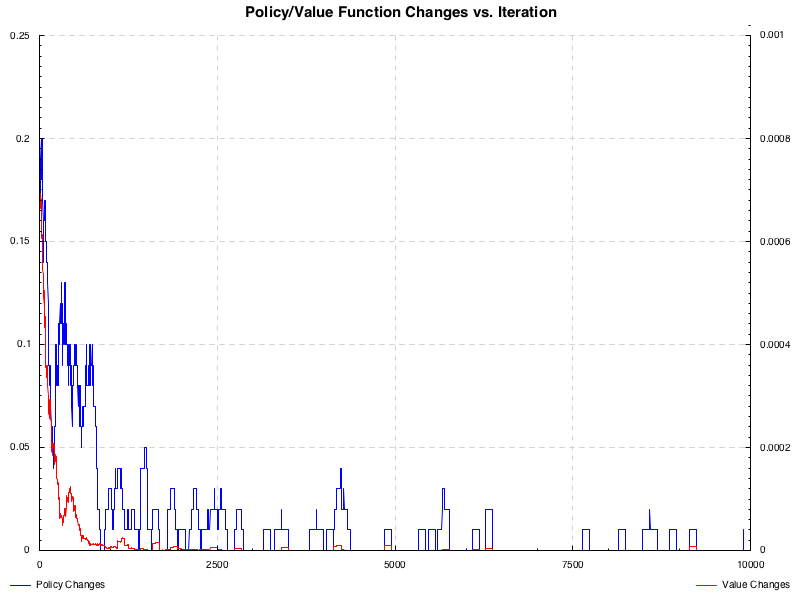
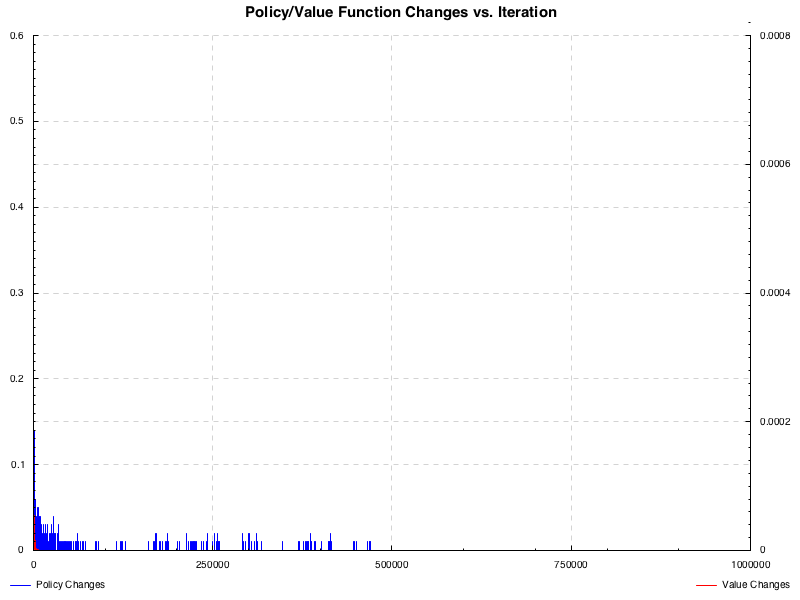
Checkpoint during blackjack updating.

diff --git a/blackjack.html b/blackjack.html
@@ -182,8 +182,8 @@ hit st<span class="fu">@</span><span class="dt">BJState</span>{<span class="fu">
 
 <span class="ot">stand ::</span> <span class="dt">BJState</span> <span class="ot">-&gt;</span> [((<span class="dt">BJState</span>, <span class="dt">Double</span>), <span class="dt">Double</span>)]
 stand st<span class="fu">@</span><span class="dt">BJState</span>{<span class="fu">..</span>} <span class="fu">=</span>
-  [ ((st&#39;, <span class="dv">0</span>), <span class="dv">1</span> <span class="fu">-</span> pWin)
-  , ((st&#39;, <span class="dv">1</span>), pWin)
+  [ ((st&#39;, <span class="fu">-</span><span class="dv">1</span>), <span class="dv">1</span> <span class="fu">-</span> pWin)
+  , ((st&#39;, <span class="dv">1</span>),  pWin)
   ]
   <span class="kw">where</span>
     st&#39;  <span class="fu">=</span> st{done <span class="fu">=</span> <span class="dt">True</span>}
@@ -373,7 +373,9 @@ main <span class="fu">=</span> <span class="kw">do</span>
   <span class="co">-- Debugging Info</span>
   appendFile mdFilename <span class="st">&quot;\n### Debugging Info\n\n&quot;</span>
 
-  appendFile mdFilename <span class="fu">$</span> pack <span class="fu">$</span> printf <span class="st">&quot;**Number of games played:** %d\n\n&quot;</span> nG
+  appendFile mdFilename <span class="fu">$</span> pack <span class="fu">$</span> printf <span class="st">&quot;**Number of games played:** %d  \n&quot;</span> nG
+  appendFile mdFilename <span class="fu">$</span> pack <span class="fu">$</span> printf <span class="st">&quot;**Epsilon:** %f  \n&quot;</span> eps&#39;
+  appendFile mdFilename <span class="fu">$</span> pack <span class="fu">$</span> printf <span class="st">&quot;**Beta:** %f\n\n&quot;</span> beta&#39;
 
   appendFile mdFilename <span class="st">&quot;**Last game sequence:**  \n&quot;</span>
   appendFile mdFilename <span class="fu">$</span> pack <span class="fu">$</span> unlines <span class="fu">$</span>
@@ -399,21 +401,21 @@ With usable ace:
 <span class="math display">\[\begin{array}{c|c|c|c|c|c|c|c|c|c}
 \text{Player&#39;s Total} &amp; &amp; &amp; &amp; &amp; &amp; &amp; &amp; &amp; &amp;  \\
 \hline
-12 &amp;   &amp; H &amp; H &amp; H &amp; H &amp; H &amp; H &amp; H &amp; H &amp; H \\
+12 &amp; H &amp; H &amp; H &amp; H &amp; H &amp; H &amp; H &amp; H &amp; H &amp; H \\
 \hline
-13 &amp;   &amp; H &amp; H &amp; H &amp; H &amp; H &amp; H &amp; H &amp; H &amp; H \\
+13 &amp; H &amp; H &amp; H &amp; H &amp; H &amp; H &amp; H &amp; H &amp; H &amp; H \\
 \hline
-14 &amp; H &amp;   &amp; H &amp;   &amp;   &amp;   &amp; H &amp; H &amp; H &amp;   \\
+14 &amp; H &amp; H &amp; H &amp; H &amp; H &amp; H &amp; H &amp; H &amp; H &amp; H \\
 \hline
-15 &amp; H &amp;   &amp; H &amp; H &amp; H &amp;   &amp; H &amp; H &amp; H &amp; H \\
+15 &amp; H &amp; H &amp; H &amp; H &amp; H &amp; H &amp; H &amp; H &amp; H &amp; H \\
 \hline
-16 &amp; H &amp;   &amp; H &amp;   &amp;   &amp; H &amp; H &amp; H &amp;   &amp; H \\
+16 &amp; H &amp; H &amp; H &amp; H &amp; H &amp; H &amp; H &amp; H &amp; H &amp; H \\
 \hline
-17 &amp; H &amp; H &amp; H &amp; H &amp;   &amp; H &amp; H &amp; H &amp; H &amp; H \\
+17 &amp; H &amp; H &amp; H &amp; H &amp; H &amp; H &amp; H &amp; H &amp; H &amp; H \\
 \hline
-18 &amp;   &amp;   &amp;   &amp;   &amp;   &amp;   &amp;   &amp; H &amp; H &amp;   \\
+18 &amp; H &amp;   &amp;   &amp;   &amp;   &amp;   &amp;   &amp; H &amp; H &amp; H \\
 \hline
-19 &amp;   &amp;   &amp; H &amp;   &amp;   &amp;   &amp;   &amp;   &amp;   &amp;   \\
+19 &amp;   &amp;   &amp;   &amp;   &amp;   &amp;   &amp;   &amp;   &amp;   &amp;   \\
 \hline
 20 &amp;   &amp;   &amp;   &amp;   &amp;   &amp;   &amp;   &amp;   &amp;   &amp;   \\
 \hline
@@ -425,21 +427,21 @@ No usable ace:
 <span class="math display">\[\begin{array}{c|c|c|c|c|c|c|c|c|c}
 \text{Player&#39;s Total} &amp; &amp; &amp; &amp; &amp; &amp; &amp; &amp; &amp; &amp;  \\
 \hline
-12 &amp;   &amp;   &amp;   &amp;   &amp;   &amp;   &amp;   &amp; H &amp;   &amp; H \\
+12 &amp; H &amp;   &amp;   &amp;   &amp;   &amp;   &amp; H &amp; H &amp; H &amp; H \\
 \hline
-13 &amp;   &amp;   &amp;   &amp;   &amp;   &amp;   &amp; H &amp; H &amp;   &amp;   \\
+13 &amp; H &amp;   &amp;   &amp;   &amp;   &amp;   &amp; H &amp; H &amp; H &amp; H \\
 \hline
-14 &amp;   &amp;   &amp;   &amp;   &amp; H &amp;   &amp;   &amp;   &amp;   &amp;   \\
+14 &amp; H &amp;   &amp;   &amp;   &amp;   &amp;   &amp; H &amp; H &amp; H &amp; H \\
 \hline
-15 &amp; H &amp;   &amp;   &amp;   &amp; H &amp;   &amp;   &amp;   &amp; H &amp;   \\
+15 &amp; H &amp;   &amp;   &amp;   &amp;   &amp;   &amp; H &amp; H &amp; H &amp;   \\
 \hline
-16 &amp;   &amp;   &amp;   &amp; H &amp;   &amp;   &amp; H &amp;   &amp;   &amp;   \\
+16 &amp; H &amp;   &amp;   &amp;   &amp;   &amp;   &amp;   &amp;   &amp;   &amp;   \\
 \hline
-17 &amp; H &amp;   &amp; H &amp;   &amp;   &amp;   &amp;   &amp;   &amp;   &amp;   \\
+17 &amp; H &amp;   &amp;   &amp;   &amp;   &amp;   &amp;   &amp;   &amp;   &amp;   \\
 \hline
-18 &amp;   &amp; H &amp;   &amp;   &amp;   &amp;   &amp;   &amp;   &amp;   &amp;   \\
+18 &amp;   &amp;   &amp;   &amp;   &amp;   &amp;   &amp;   &amp;   &amp;   &amp;   \\
 \hline
-19 &amp;   &amp;   &amp;   &amp;   &amp;   &amp;   &amp; H &amp;   &amp;   &amp;   \\
+19 &amp;   &amp;   &amp;   &amp;   &amp;   &amp;   &amp;   &amp;   &amp;   &amp;   \\
 \hline
 20 &amp;   &amp;   &amp;   &amp;   &amp;   &amp;   &amp;   &amp;   &amp;   &amp;   \\
 \hline
@@ -453,34 +455,36 @@ No usable ace:
 
 </div>
 <h3 id="debugging-info">Debugging Info</h3>
-<p><strong>Number of games played:</strong> 10000</p>
+<p><strong>Number of games played:</strong> 1000000<br />
+<strong>Epsilon:</strong> 0.5<br />
+<strong>Beta:</strong> 0.0</p>
 <p><strong>Last game sequence:</strong><br />
-Total: 19, Action: S, Reward: 0.5</p>
-<p><strong>Max. game length:</strong> 6</p>
+Total: 20, Action: S, Reward: 0.6</p>
+<p><strong>Max. game length:</strong> 8</p>
 <p><strong>Final State Action Values (stand, hit):</strong></p>
 With usable ace:
 <span class="math display">\[\begin{array}{c|c|c|c|c|c|c|c|c|c}
 \text{Player&#39;s Total} &amp; &amp; &amp; &amp; &amp; &amp; &amp; &amp; &amp; &amp;  \\
 \hline
-12 &amp; ( 0.12, 0.08) &amp; ( 0.00, 0.44) &amp; ( 0.37, 0.53) &amp; ( 0.39, 0.46) &amp; ( 0.42, 0.54) &amp; ( 0.00, 0.56) &amp; ( 0.26, 0.52) &amp; ( 0.00, 0.43) &amp; ( 0.23, 0.49) &amp; ( 0.21, 0.31) \\
+12 &amp; (-0.77,-0.38) &amp; (-0.29, 0.01) &amp; (-0.25, 0.04) &amp; (-0.21, 0.07) &amp; (-0.17, 0.10) &amp; (-0.15, 0.14) &amp; (-0.48, 0.07) &amp; (-0.51,-0.01) &amp; (-0.54,-0.11) &amp; (-0.58,-0.24) \\
 \hline
-13 &amp; ( 0.12, 0.00) &amp; ( 0.00, 0.43) &amp; ( 0.37, 0.48) &amp; ( 0.39, 0.47) &amp; ( 0.00, 0.51) &amp; ( 0.00, 0.51) &amp; ( 0.00, 0.57) &amp; ( 0.24, 0.47) &amp; ( 0.23, 0.32) &amp; ( 0.21, 0.30) \\
+13 &amp; (-0.77,-0.40) &amp; (-0.29,-0.02) &amp; (-0.25, 0.01) &amp; (-0.21, 0.04) &amp; (-0.17, 0.10) &amp; (-0.15, 0.10) &amp; (-0.48, 0.05) &amp; (-0.51,-0.02) &amp; (-0.54,-0.12) &amp; (-0.58,-0.26) \\
 \hline
-14 &amp; ( 0.00, 0.21) &amp; ( 0.35, 0.31) &amp; ( 0.37, 0.49) &amp; ( 0.39, 0.38) &amp; ( 0.42, 0.39) &amp; ( 0.42, 0.22) &amp; ( 0.26, 0.52) &amp; ( 0.24, 0.48) &amp; ( 0.23, 0.34) &amp; ( 0.21, 0.00) \\
+14 &amp; (-0.77,-0.45) &amp; (-0.29,-0.05) &amp; (-0.25,-0.02) &amp; (-0.21, 0.03) &amp; (-0.17, 0.07) &amp; (-0.15, 0.10) &amp; (-0.48, 0.02) &amp; (-0.51,-0.04) &amp; (-0.54,-0.18) &amp; (-0.58,-0.29) \\
 \hline
-15 &amp; ( 0.12, 0.21) &amp; ( 0.35, 0.18) &amp; ( 0.00, 0.43) &amp; ( 0.39, 0.47) &amp; ( 0.42, 0.50) &amp; ( 0.42, 0.36) &amp; ( 0.00, 0.44) &amp; ( 0.24, 0.40) &amp; ( 0.00, 0.33) &amp; ( 0.21, 0.35) \\
+15 &amp; (-0.77,-0.45) &amp; (-0.29,-0.05) &amp; (-0.25,-0.01) &amp; (-0.21, 0.02) &amp; (-0.17, 0.04) &amp; (-0.15, 0.08) &amp; (-0.48,-0.02) &amp; (-0.51,-0.10) &amp; (-0.54,-0.20) &amp; (-0.58,-0.31) \\
 \hline
-16 &amp; ( 0.00, 0.20) &amp; ( 0.35, 0.29) &amp; ( 0.00, 0.42) &amp; ( 0.39, 0.38) &amp; ( 0.42, 0.21) &amp; ( 0.42, 0.50) &amp; ( 0.26, 0.42) &amp; ( 0.24, 0.41) &amp; ( 0.23, 0.11) &amp; ( 0.00, 0.31) \\
+16 &amp; (-0.77,-0.47) &amp; (-0.29,-0.07) &amp; (-0.25,-0.03) &amp; (-0.21, 0.01) &amp; (-0.17, 0.04) &amp; (-0.15, 0.06) &amp; (-0.48,-0.07) &amp; (-0.51,-0.14) &amp; (-0.54,-0.24) &amp; (-0.58,-0.34) \\
 \hline
-17 &amp; ( 0.12, 0.24) &amp; ( 0.35, 0.44) &amp; ( 0.37, 0.45) &amp; ( 0.39, 0.43) &amp; ( 0.42, 0.36) &amp; ( 0.42, 0.51) &amp; ( 0.26, 0.40) &amp; ( 0.24, 0.46) &amp; ( 0.23, 0.36) &amp; ( 0.21, 0.26) \\
+17 &amp; (-0.77,-0.50) &amp; (-0.29,-0.09) &amp; (-0.25,-0.05) &amp; (-0.21,-0.01) &amp; (-0.17, 0.02) &amp; (-0.15, 0.04) &amp; (-0.48,-0.12) &amp; (-0.51,-0.18) &amp; (-0.54,-0.26) &amp; (-0.58,-0.35) \\
 \hline
-18 &amp; ( 0.25, 0.21) &amp; ( 0.49, 0.25) &amp; ( 0.51, 0.50) &amp; ( 0.52, 0.43) &amp; ( 0.54, 0.48) &amp; ( 0.59, 0.42) &amp; ( 0.63, 0.55) &amp; ( 0.37, 0.48) &amp; ( 0.35, 0.41) &amp; ( 0.32, 0.29) \\
+18 &amp; (-0.51,-0.46) &amp; (-0.01,-0.02) &amp; ( 0.02, 0.01) &amp; ( 0.05, 0.04) &amp; ( 0.08, 0.07) &amp; ( 0.18, 0.13) &amp; ( 0.26, 0.05) &amp; (-0.25,-0.10) &amp; (-0.30,-0.19) &amp; (-0.35,-0.30) \\
 \hline
-19 &amp; ( 0.38, 0.21) &amp; ( 0.63, 0.31) &amp; ( 0.00, 0.48) &amp; ( 0.65, 0.17) &amp; ( 0.66, 0.49) &amp; ( 0.69, 0.52) &amp; ( 0.77, 0.41) &amp; ( 0.73, 0.55) &amp; ( 0.47, 0.40) &amp; ( 0.43, 0.35) \\
+19 &amp; (-0.25,-0.40) &amp; ( 0.26, 0.05) &amp; ( 0.28, 0.06) &amp; ( 0.30, 0.10) &amp; ( 0.32, 0.13) &amp; ( 0.39, 0.17) &amp; ( 0.54, 0.11) &amp; ( 0.47, 0.06) &amp; (-0.06,-0.14) &amp; (-0.13,-0.26) \\
 \hline
-20 &amp; ( 0.51, 0.22) &amp; ( 0.76, 0.20) &amp; ( 0.76, 0.44) &amp; ( 0.77, 0.51) &amp; ( 0.78, 0.63) &amp; ( 0.80, 0.44) &amp; ( 0.85, 0.52) &amp; ( 0.86, 0.38) &amp; ( 0.82, 0.35) &amp; ( 0.55, 0.50) \\
+20 &amp; ( 0.02,-0.34) &amp; ( 0.52, 0.08) &amp; ( 0.53, 0.13) &amp; ( 0.54, 0.14) &amp; ( 0.56, 0.18) &amp; ( 0.60, 0.21) &amp; ( 0.69, 0.17) &amp; ( 0.72, 0.09) &amp; ( 0.64, 0.00) &amp; ( 0.09,-0.21) \\
 \hline
-21 &amp; ( 0.64, 0.00) &amp; ( 0.88, 0.00) &amp; ( 0.89, 0.00) &amp; ( 0.89, 0.00) &amp; ( 0.89, 0.00) &amp; ( 0.90, 0.00) &amp; ( 0.93, 0.00) &amp; ( 0.93, 0.00) &amp; ( 0.94, 0.00) &amp; ( 0.89, 0.00) \\
+21 &amp; ( 0.28, 0.00) &amp; ( 0.76, 0.00) &amp; ( 0.77, 0.00) &amp; ( 0.78, 0.00) &amp; ( 0.78, 0.00) &amp; ( 0.81, 0.00) &amp; ( 0.85, 0.00) &amp; ( 0.86, 0.00) &amp; ( 0.88, 0.00) &amp; ( 0.78, 0.00) \\
 \hline
 \text{Dealer&#39;s Card:}  &amp; 1 &amp; 2 &amp; 3 &amp; 4 &amp; 5 &amp; 6 &amp; 7 &amp; 8 &amp; 9 &amp; 10
 \end{array}\]</span>
@@ -488,25 +492,25 @@ No usable ace:
 <span class="math display">\[\begin{array}{c|c|c|c|c|c|c|c|c|c}
 \text{Player&#39;s Total} &amp; &amp; &amp; &amp; &amp; &amp; &amp; &amp; &amp; &amp;  \\
 \hline
-12 &amp; ( 0.12, 0.07) &amp; ( 0.35, 0.20) &amp; ( 0.37, 0.33) &amp; ( 0.39, 0.24) &amp; ( 0.42, 0.32) &amp; ( 0.42, 0.33) &amp; ( 0.26, 0.00) &amp; ( 0.24, 0.32) &amp; ( 0.23, 0.08) &amp; ( 0.21, 0.22) \\
+12 &amp; (-0.77,-0.60) &amp; (-0.29,-0.31) &amp; (-0.25,-0.28) &amp; (-0.21,-0.24) &amp; (-0.17,-0.22) &amp; (-0.15,-0.22) &amp; (-0.48,-0.27) &amp; (-0.51,-0.34) &amp; (-0.54,-0.42) &amp; (-0.58,-0.50) \\
 \hline
-13 &amp; ( 0.12, 0.03) &amp; ( 0.35, 0.18) &amp; ( 0.37, 0.19) &amp; ( 0.39, 0.13) &amp; ( 0.42, 0.25) &amp; ( 0.42, 0.39) &amp; ( 0.26, 0.34) &amp; ( 0.24, 0.29) &amp; ( 0.23, 0.20) &amp; ( 0.21, 0.00) \\
+13 &amp; (-0.77,-0.62) &amp; (-0.29,-0.35) &amp; (-0.25,-0.33) &amp; (-0.21,-0.30) &amp; (-0.17,-0.29) &amp; (-0.15,-0.26) &amp; (-0.48,-0.31) &amp; (-0.51,-0.38) &amp; (-0.54,-0.44) &amp; (-0.58,-0.51) \\
 \hline
-14 &amp; ( 0.12, 0.09) &amp; ( 0.35, 0.29) &amp; ( 0.37, 0.31) &amp; ( 0.39, 0.18) &amp; ( 0.00, 0.30) &amp; ( 0.42, 0.36) &amp; ( 0.26, 0.17) &amp; ( 0.24, 0.22) &amp; ( 0.23, 0.19) &amp; ( 0.21, 0.14) \\
+14 &amp; (-0.77,-0.66) &amp; (-0.29,-0.41) &amp; (-0.25,-0.39) &amp; (-0.21,-0.36) &amp; (-0.17,-0.35) &amp; (-0.15,-0.33) &amp; (-0.48,-0.38) &amp; (-0.51,-0.41) &amp; (-0.54,-0.48) &amp; (-0.58,-0.55) \\
 \hline
-15 &amp; ( 0.00, 0.15) &amp; ( 0.35, 0.35) &amp; ( 0.37, 0.00) &amp; ( 0.39, 0.34) &amp; ( 0.00, 0.21) &amp; ( 0.42, 0.00) &amp; ( 0.26, 0.00) &amp; ( 0.24, 0.24) &amp; ( 0.00, 0.22) &amp; ( 0.21, 0.14) \\
+15 &amp; (-0.77,-0.67) &amp; (-0.29,-0.45) &amp; (-0.25,-0.46) &amp; (-0.21,-0.44) &amp; (-0.17,-0.41) &amp; (-0.15,-0.40) &amp; (-0.48,-0.43) &amp; (-0.51,-0.47) &amp; (-0.54,-0.53) &amp; (-0.58,-0.59) \\
 \hline
-16 &amp; ( 0.12, 0.09) &amp; ( 0.35, 0.33) &amp; ( 0.37, 0.00) &amp; ( 0.00, 0.22) &amp; ( 0.42, 0.17) &amp; ( 0.42, 0.32) &amp; ( 0.00, 0.22) &amp; ( 0.24, 0.20) &amp; ( 0.23, 0.13) &amp; ( 0.21, 0.00) \\
+16 &amp; (-0.77,-0.70) &amp; (-0.29,-0.51) &amp; (-0.25,-0.50) &amp; (-0.21,-0.52) &amp; (-0.17,-0.49) &amp; (-0.15,-0.45) &amp; (-0.48,-0.49) &amp; (-0.51,-0.52) &amp; (-0.54,-0.56) &amp; (-0.58,-0.62) \\
 \hline
-17 &amp; ( 0.12, 0.15) &amp; ( 0.35, 0.15) &amp; ( 0.00, 0.15) &amp; ( 0.39, 0.20) &amp; ( 0.42, 0.00) &amp; ( 0.42, 0.27) &amp; ( 0.26, 0.20) &amp; ( 0.24, 0.24) &amp; ( 0.23, 0.21) &amp; ( 0.21, 0.19) \\
+17 &amp; (-0.77,-0.73) &amp; (-0.29,-0.56) &amp; (-0.25,-0.56) &amp; (-0.21,-0.56) &amp; (-0.17,-0.55) &amp; (-0.15,-0.53) &amp; (-0.48,-0.49) &amp; (-0.51,-0.52) &amp; (-0.54,-0.62) &amp; (-0.58,-0.64) \\
 \hline
-18 &amp; ( 0.25, 0.09) &amp; ( 0.00, 0.15) &amp; ( 0.51, 0.39) &amp; ( 0.52, 0.00) &amp; ( 0.54, 0.30) &amp; ( 0.59, 0.23) &amp; ( 0.63, 0.31) &amp; ( 0.37, 0.00) &amp; ( 0.35, 0.00) &amp; ( 0.32, 0.18) \\
+18 &amp; (-0.51,-0.75) &amp; (-0.01,-0.63) &amp; ( 0.02,-0.63) &amp; ( 0.05,-0.62) &amp; ( 0.08,-0.62) &amp; ( 0.18,-0.62) &amp; ( 0.26,-0.61) &amp; (-0.25,-0.59) &amp; (-0.30,-0.67) &amp; (-0.35,-0.71) \\
 \hline
-19 &amp; ( 0.38, 0.09) &amp; ( 0.63, 0.17) &amp; ( 0.64, 0.22) &amp; ( 0.65, 0.09) &amp; ( 0.66, 0.10) &amp; ( 0.69, 0.00) &amp; ( 0.00, 0.19) &amp; ( 0.73, 0.12) &amp; ( 0.47, 0.00) &amp; ( 0.43, 0.00) \\
+19 &amp; (-0.25,-0.83) &amp; ( 0.26,-0.74) &amp; ( 0.28,-0.74) &amp; ( 0.30,-0.72) &amp; ( 0.32,-0.75) &amp; ( 0.39,-0.73) &amp; ( 0.54,-0.70) &amp; ( 0.47,-0.70) &amp; (-0.06,-0.71) &amp; (-0.13,-0.76) \\
 \hline
-20 &amp; ( 0.51, 0.00) &amp; ( 0.76, 0.08) &amp; ( 0.76, 0.00) &amp; ( 0.77, 0.00) &amp; ( 0.78, 0.00) &amp; ( 0.80, 0.00) &amp; ( 0.85, 0.00) &amp; ( 0.86, 0.00) &amp; ( 0.82, 0.00) &amp; ( 0.55, 0.00) \\
+20 &amp; ( 0.02,-1.00) &amp; ( 0.52,-1.00) &amp; ( 0.53,-1.00) &amp; ( 0.54,-1.00) &amp; ( 0.56,-1.00) &amp; ( 0.60,-1.00) &amp; ( 0.69,-1.00) &amp; ( 0.72,-1.00) &amp; ( 0.64,-1.00) &amp; ( 0.09,-1.00) \\
 \hline
-21 &amp; ( 0.64, 0.00) &amp; ( 0.88, 0.00) &amp; ( 0.89, 0.00) &amp; ( 0.89, 0.00) &amp; ( 0.89, 0.00) &amp; ( 0.90, 0.00) &amp; ( 0.93, 0.00) &amp; ( 0.93, 0.00) &amp; ( 0.94, 0.00) &amp; ( 0.89, 0.00) \\
+21 &amp; ( 0.28, 0.00) &amp; ( 0.76, 0.00) &amp; ( 0.77, 0.00) &amp; ( 0.78, 0.00) &amp; ( 0.78, 0.00) &amp; ( 0.81, 0.00) &amp; ( 0.85, 0.00) &amp; ( 0.86, 0.00) &amp; ( 0.88, 0.00) &amp; ( 0.78, 0.00) \\
 \hline
 \text{Dealer&#39;s Card:}  &amp; 1 &amp; 2 &amp; 3 &amp; 4 &amp; 5 &amp; 6 &amp; 7 &amp; 8 &amp; 9 &amp; 10
 \end{array}\]</span>
@@ -515,25 +519,25 @@ With usable ace:
 <span class="math display">\[\begin{array}{c|c|c|c|c|c|c|c|c|c}
 \text{Player&#39;s Total} &amp; &amp; &amp; &amp; &amp; &amp; &amp; &amp; &amp; &amp;  \\
 \hline
-12 &amp; (40,5) &amp; (0,49) &amp; (1,42) &amp; (1,63) &amp; (23,25) &amp; (0,34) &amp; (1,46) &amp; (0,50) &amp; (38,9) &amp; (3,38) \\
+12 &amp; (2560,2536) &amp; (2442,2437) &amp; (2434,2411) &amp; (2442,2542) &amp; (2484,2553) &amp; (2544,2472) &amp; (2487,2575) &amp; (2424,2496) &amp; (2466,2565) &amp; (2423,2502) \\
 \hline
-13 &amp; (39,1) &amp; (0,44) &amp; (4,59) &amp; (18,35) &amp; (0,49) &amp; (0,52) &amp; (0,49) &amp; (1,60) &amp; (1,62) &amp; (38,14) \\
+13 &amp; (2546,2725) &amp; (2534,2705) &amp; (2499,2735) &amp; (2425,2678) &amp; (2466,2707) &amp; (2653,2696) &amp; (2413,2743) &amp; (2514,2728) &amp; (2414,2683) &amp; (2493,2686) \\
 \hline
-14 &amp; (0,48) &amp; (53,2) &amp; (2,82) &amp; (46,9) &amp; (48,9) &amp; (55,5) &amp; (1,56) &amp; (1,58) &amp; (2,69) &amp; (51,0) \\
+14 &amp; (2598,2880) &amp; (2472,2941) &amp; (2584,2802) &amp; (2499,2809) &amp; (2418,2908) &amp; (2546,2977) &amp; (2582,2905) &amp; (2558,2913) &amp; (2552,2911) &amp; (2611,2878) \\
 \hline
-15 &amp; (44,18) &amp; (65,2) &amp; (0,53) &amp; (34,20) &amp; (1,48) &amp; (60,4) &amp; (0,59) &amp; (2,57) &amp; (0,60) &amp; (1,51) \\
+15 &amp; (2441,3095) &amp; (2490,3202) &amp; (2489,3170) &amp; (2560,2962) &amp; (2512,3132) &amp; (2486,3141) &amp; (2409,3135) &amp; (2463,3088) &amp; (2586,3172) &amp; (2544,3178) \\
 \hline
-16 &amp; (0,47) &amp; (54,3) &amp; (0,80) &amp; (42,23) &amp; (54,11) &amp; (1,54) &amp; (1,58) &amp; (1,66) &amp; (53,2) &amp; (0,53) \\
+16 &amp; (2498,3387) &amp; (2404,3377) &amp; (2531,3379) &amp; (2426,3362) &amp; (2482,3426) &amp; (2449,3372) &amp; (2471,3389) &amp; (2477,3364) &amp; (2538,3339) &amp; (2487,3317) \\
 \hline
-17 &amp; (1,57) &amp; (5,59) &amp; (2,75) &amp; (2,61) &amp; (53,11) &amp; (2,60) &amp; (2,70) &amp; (3,85) &amp; (3,53) &amp; (1,60) \\
+17 &amp; (2561,3615) &amp; (2438,3566) &amp; (2482,3688) &amp; (2533,3560) &amp; (2443,3738) &amp; (2524,3624) &amp; (2505,3684) &amp; (2487,3690) &amp; (2523,3599) &amp; (2521,3627) \\
 \hline
-18 &amp; (49,12) &amp; (60,11) &amp; (58,29) &amp; (52,6) &amp; (40,11) &amp; (69,3) &amp; (50,23) &amp; (2,95) &amp; (2,61) &amp; (49,12) \\
+18 &amp; (2469,3874) &amp; (3923,2533) &amp; (3953,2577) &amp; (3833,2470) &amp; (3996,2592) &amp; (4037,2537) &amp; (3900,2508) &amp; (2558,3877) &amp; (2435,3988) &amp; (2583,3867) \\
 \hline
-19 &amp; (53,3) &amp; (71,4) &amp; (0,81) &amp; (66,3) &amp; (45,6) &amp; (39,18) &amp; (64,11) &amp; (104,5) &amp; (1,75) &amp; (33,28) \\
+19 &amp; (4306,2497) &amp; (4081,2508) &amp; (4138,2517) &amp; (4083,2546) &amp; (4200,2400) &amp; (4141,2479) &amp; (4177,2573) &amp; (4302,2559) &amp; (4233,2465) &amp; (4226,2434) \\
 \hline
-20 &amp; (33,44) &amp; (37,31) &amp; (76,6) &amp; (23,32) &amp; (68,4) &amp; (49,24) &amp; (72,6) &amp; (89,8) &amp; (50,9) &amp; (41,22) \\
+20 &amp; (4393,2481) &amp; (4331,2499) &amp; (4230,2474) &amp; (4183,2568) &amp; (4333,2437) &amp; (4307,2395) &amp; (4369,2542) &amp; (4454,2516) &amp; (4433,2435) &amp; (4369,2483) \\
 \hline
-21 &amp; (56,0) &amp; (54,0) &amp; (92,0) &amp; (60,0) &amp; (59,0) &amp; (73,0) &amp; (80,0) &amp; (61,0) &amp; (77,0) &amp; (67,0) \\
+21 &amp; (7050,0) &amp; (7005,0) &amp; (6955,0) &amp; (7119,0) &amp; (7061,0) &amp; (6799,0) &amp; (7091,0) &amp; (7163,0) &amp; (7187,0) &amp; (7100,0) \\
 \hline
 \text{Dealer&#39;s Card:}  &amp; 1 &amp; 2 &amp; 3 &amp; 4 &amp; 5 &amp; 6 &amp; 7 &amp; 8 &amp; 9 &amp; 10
 \end{array}\]</span>
@@ -541,25 +545,25 @@ No usable ace:
 <span class="math display">\[\begin{array}{c|c|c|c|c|c|c|c|c|c}
 \text{Player&#39;s Total} &amp; &amp; &amp; &amp; &amp; &amp; &amp; &amp; &amp; &amp;  \\
 \hline
-12 &amp; (53,13) &amp; (33,53) &amp; (80,12) &amp; (71,10) &amp; (43,24) &amp; (52,25) &amp; (96,1) &amp; (3,87) &amp; (86,3) &amp; (2,72) \\
+12 &amp; (2477,5244) &amp; (4924,2513) &amp; (5080,2527) &amp; (5117,2548) &amp; (5100,2546) &amp; (4968,2573) &amp; (2547,5112) &amp; (2576,5004) &amp; (2521,5164) &amp; (2461,5080) \\
 \hline
-13 &amp; (75,4) &amp; (73,4) &amp; (81,2) &amp; (74,10) &amp; (51,12) &amp; (83,7) &amp; (2,61) &amp; (2,93) &amp; (74,13) &amp; (75,4) \\
+13 &amp; (2582,5464) &amp; (5025,2524) &amp; (5166,2544) &amp; (5025,2466) &amp; (5019,2497) &amp; (5158,2570) &amp; (2474,5326) &amp; (2592,5359) &amp; (2514,5447) &amp; (2478,5405) \\
 \hline
-14 &amp; (73,10) &amp; (81,6) &amp; (84,25) &amp; (74,10) &amp; (0,74) &amp; (51,6) &amp; (72,5) &amp; (57,31) &amp; (80,8) &amp; (75,3) \\
+14 &amp; (2637,5536) &amp; (5176,2510) &amp; (5020,2544) &amp; (5152,2513) &amp; (5081,2513) &amp; (5136,2532) &amp; (2658,5322) &amp; (2448,5720) &amp; (2585,5754) &amp; (2911,5360) \\
 \hline
-15 &amp; (0,77) &amp; (66,5) &amp; (91,3) &amp; (66,6) &amp; (0,97) &amp; (59,2) &amp; (92,4) &amp; (17,90) &amp; (0,85) &amp; (77,8) \\
+15 &amp; (2583,5953) &amp; (5283,2527) &amp; (5239,2469) &amp; (5139,2498) &amp; (5050,2426) &amp; (5191,2410) &amp; (3173,5192) &amp; (3674,4696) &amp; (2664,5845) &amp; (5906,2571) \\
 \hline
-16 &amp; (58,18) &amp; (60,9) &amp; (92,6) &amp; (0,58) &amp; (48,27) &amp; (72,9) &amp; (0,89) &amp; (107,10) &amp; (70,7) &amp; (88,2) \\
+16 &amp; (2411,6216) &amp; (5266,2482) &amp; (5239,2495) &amp; (5239,2578) &amp; (5133,2492) &amp; (5230,2470) &amp; (5924,2565) &amp; (6131,2507) &amp; (6097,2465) &amp; (5886,2504) \\
 \hline
-17 &amp; (3,81) &amp; (58,23) &amp; (0,84) &amp; (78,9) &amp; (79,3) &amp; (85,3) &amp; (77,9) &amp; (68,45) &amp; (72,6) &amp; (69,14) \\
+17 &amp; (2574,6384) &amp; (5204,2564) &amp; (5177,2426) &amp; (5193,2451) &amp; (5170,2471) &amp; (5223,2538) &amp; (5795,2735) &amp; (4559,3996) &amp; (6118,2551) &amp; (5990,2464) \\
 \hline
-18 &amp; (75,4) &amp; (0,68) &amp; (69,11) &amp; (65,8) &amp; (54,3) &amp; (63,7) &amp; (60,3) &amp; (79,10) &amp; (76,4) &amp; (66,3) \\
+18 &amp; (6811,2478) &amp; (4853,2511) &amp; (4837,2427) &amp; (4744,2535) &amp; (4762,2490) &amp; (4880,2478) &amp; (5772,2497) &amp; (6106,2448) &amp; (6093,2514) &amp; (5884,2467) \\
 \hline
-19 &amp; (69,7) &amp; (35,16) &amp; (67,19) &amp; (6,64) &amp; (53,9) &amp; (67,1) &amp; (0,60) &amp; (76,15) &amp; (70,5) &amp; (58,1) \\
+19 &amp; (6265,2473) &amp; (4792,2490) &amp; (4823,2575) &amp; (4835,2640) &amp; (4740,2512) &amp; (4828,2498) &amp; (5655,2395) &amp; (5783,2492) &amp; (5916,2386) &amp; (5534,2450) \\
 \hline
-20 &amp; (45,32) &amp; (28,35) &amp; (54,3) &amp; (65,5) &amp; (61,12) &amp; (50,10) &amp; (66,3) &amp; (84,6) &amp; (57,7) &amp; (73,1) \\
+20 &amp; (6363,2397) &amp; (4836,2430) &amp; (4737,2423) &amp; (4787,2446) &amp; (4872,2477) &amp; (4794,2405) &amp; (5671,2476) &amp; (5856,2490) &amp; (5757,2442) &amp; (5515,2472) \\
 \hline
-21 &amp; (64,0) &amp; (73,0) &amp; (61,0) &amp; (64,0) &amp; (62,0) &amp; (65,0) &amp; (80,0) &amp; (69,0) &amp; (65,0) &amp; (63,0) \\
+21 &amp; (8079,0) &amp; (6656,0) &amp; (6580,0) &amp; (6439,0) &amp; (6668,0) &amp; (6528,0) &amp; (7495,0) &amp; (7634,0) &amp; (7576,0) &amp; (7294,0) \\
 \hline
 \text{Dealer&#39;s Card:}  &amp; 1 &amp; 2 &amp; 3 &amp; 4 &amp; 5 &amp; 6 &amp; 7 &amp; 8 &amp; 9 &amp; 10
 \end{array}\]</span>
